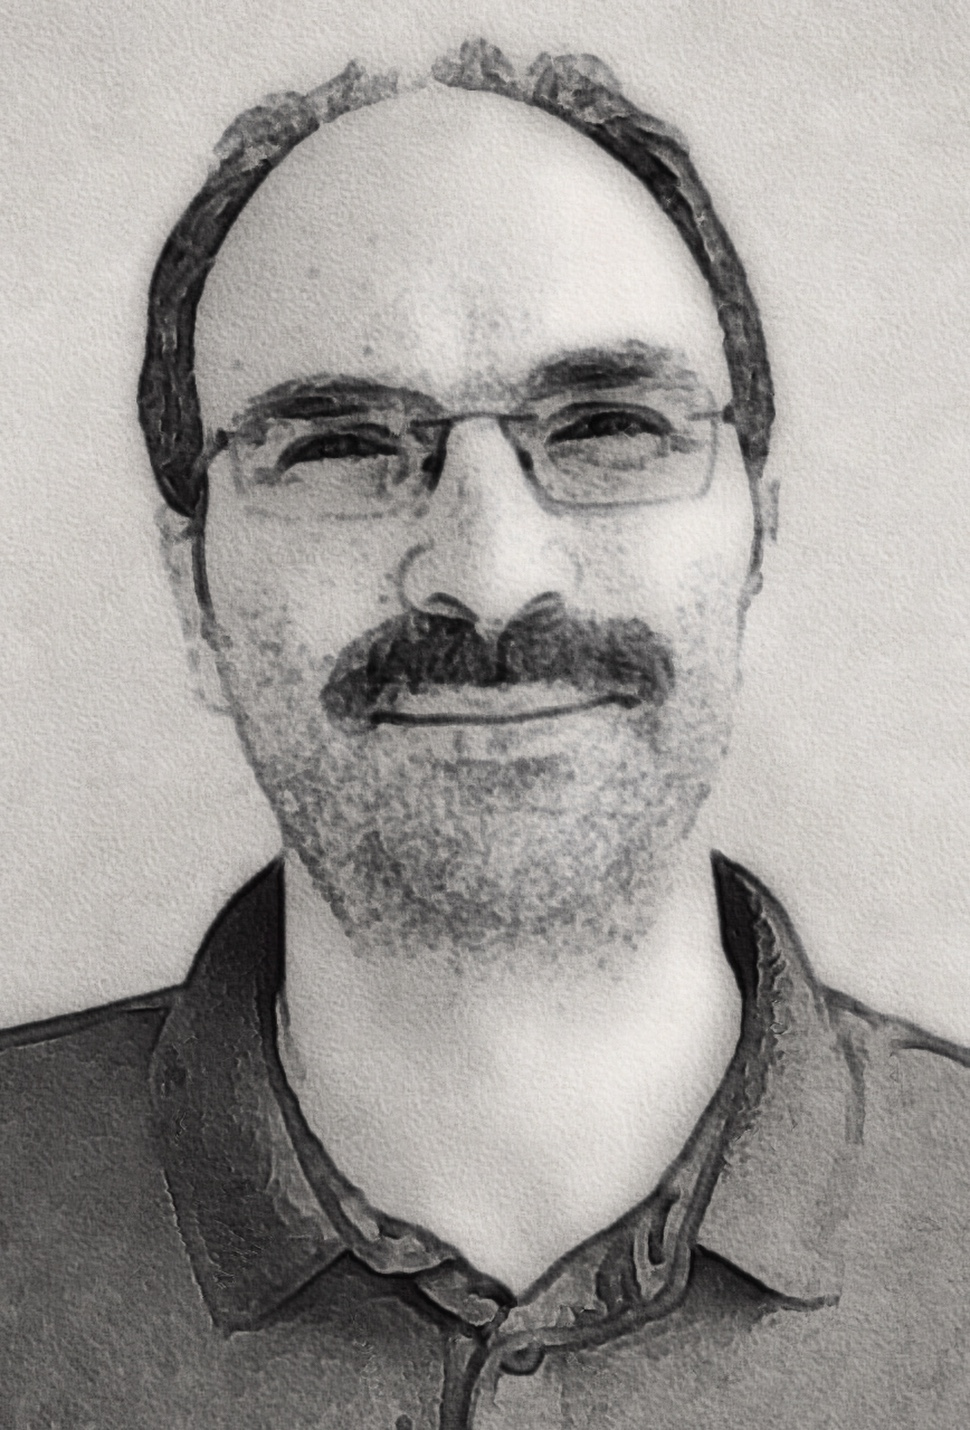
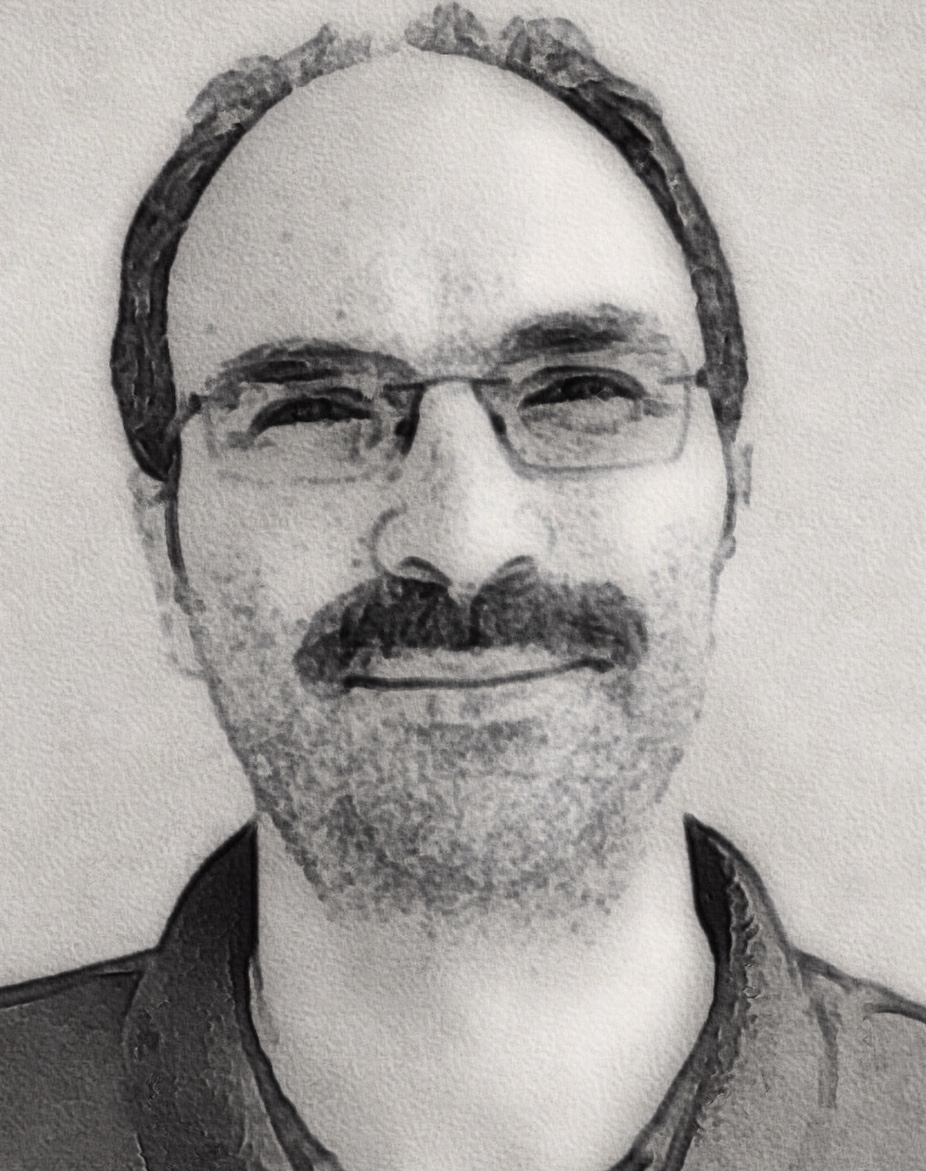
update

diff --git a/public/courses/example/gm2/index.html b/public/courses/example/gm2/index.html
@@ -807,7 +807,7 @@ prevent printing of the R code that generated the plot.</p>
   <div class="media author-card content-widget-hr">
     
       
-      <a href="https://harunpirim.netlify.app"><img class="avatar mr-3 avatar-circle" src="/author/harun-pirim/avatar_huc4d14e4d73f8c6debcd377b7fbd255c9_499515_270x270_fill_q90_lanczos_center.jpg" alt="Harun Pirim"></a>
+      <a href="https://harunpirim.netlify.app"><img class="avatar mr-3 avatar-circle" src="/author/harun-pirim/avatar_huc4d14e4d73f8c6debcd377b7fbd255c9_394416_270x270_fill_q90_lanczos_center.jpg" alt="Harun Pirim"></a>
     
 
     <div class="media-body">

diff --git a/public/post/2015-07-23-r-rmarkdown/index.html b/public/post/2015-07-23-r-rmarkdown/index.html
@@ -894,7 +894,7 @@ Figure 1: A fancy pie chart.
   <div class="media author-card content-widget-hr">
     
       
-      <a href="https://harunpirim.netlify.app"><img class="avatar mr-3 avatar-circle" src="/author/harun-pirim/avatar_huc4d14e4d73f8c6debcd377b7fbd255c9_499515_270x270_fill_q90_lanczos_center.jpg" alt="Harun Pirim"></a>
+      <a href="https://harunpirim.netlify.app"><img class="avatar mr-3 avatar-circle" src="/author/harun-pirim/avatar_huc4d14e4d73f8c6debcd377b7fbd255c9_394416_270x270_fill_q90_lanczos_center.jpg" alt="Harun Pirim"></a>
     
 
     <div class="media-body">

diff --git a/public/publication/conference-paper/index.html b/public/publication/conference-paper/index.html
@@ -1035,7 +1035,7 @@
   <div class="media author-card content-widget-hr">
     
       
-      <a href="https://harunpirim.netlify.app"><img class="avatar mr-3 avatar-circle" src="/author/harun-pirim/avatar_huc4d14e4d73f8c6debcd377b7fbd255c9_499515_270x270_fill_q90_lanczos_center.jpg" alt="Harun Pirim"></a>
+      <a href="https://harunpirim.netlify.app"><img class="avatar mr-3 avatar-circle" src="/author/harun-pirim/avatar_huc4d14e4d73f8c6debcd377b7fbd255c9_394416_270x270_fill_q90_lanczos_center.jpg" alt="Harun Pirim"></a>
     
 
     <div class="media-body">

diff --git a/public/publication/preprint/index.html b/public/publication/preprint/index.html
@@ -1010,7 +1010,7 @@
   <div class="media author-card content-widget-hr">
     
       
-      <a href="https://harunpirim.netlify.app"><img class="avatar mr-3 avatar-circle" src="/author/harun-pirim/avatar_huc4d14e4d73f8c6debcd377b7fbd255c9_499515_270x270_fill_q90_lanczos_center.jpg" alt="Harun Pirim"></a>
+      <a href="https://harunpirim.netlify.app"><img class="avatar mr-3 avatar-circle" src="/author/harun-pirim/avatar_huc4d14e4d73f8c6debcd377b7fbd255c9_394416_270x270_fill_q90_lanczos_center.jpg" alt="Harun Pirim"></a>
     
 
     <div class="media-body">

diff --git a/public/courses/example/gm/index.html b/public/courses/example/gm/index.html
@@ -794,7 +794,7 @@
   <div class="media author-card content-widget-hr">
     
       
-      <a href="https://harunpirim.netlify.app"><img class="avatar mr-3 avatar-circle" src="/author/harun-pirim/avatar_huc4d14e4d73f8c6debcd377b7fbd255c9_499515_270x270_fill_q90_lanczos_center.jpg" alt="Harun Pirim"></a>
+      <a href="https://harunpirim.netlify.app"><img class="avatar mr-3 avatar-circle" src="/author/harun-pirim/avatar_huc4d14e4d73f8c6debcd377b7fbd255c9_394416_270x270_fill_q90_lanczos_center.jpg" alt="Harun Pirim"></a>
     
 
     <div class="media-body">

diff --git a/public/courses/gm/index.html b/public/courses/gm/index.html
@@ -794,7 +794,7 @@
   <div class="media author-card content-widget-hr">
     
       
-      <a href="https://harunpirim.netlify.app"><img class="avatar mr-3 avatar-circle" src="/author/harun-pirim/avatar_huc4d14e4d73f8c6debcd377b7fbd255c9_499515_270x270_fill_q90_lanczos_center.jpg" alt="Harun Pirim"></a>
+      <a href="https://harunpirim.netlify.app"><img class="avatar mr-3 avatar-circle" src="/author/harun-pirim/avatar_huc4d14e4d73f8c6debcd377b7fbd255c9_394416_270x270_fill_q90_lanczos_center.jpg" alt="Harun Pirim"></a>
     
 
     <div class="media-body">

diff --git a/public/post/getting-started/index.html b/public/post/getting-started/index.html
@@ -968,7 +968,7 @@
   <div class="media author-card content-widget-hr">
     
       
-      <a href="https://harunpirim.netlify.app"><img class="avatar mr-3 avatar-circle" src="/author/harun-pirim/avatar_huc4d14e4d73f8c6debcd377b7fbd255c9_499515_270x270_fill_q90_lanczos_center.jpg" alt="Harun Pirim"></a>
+      <a href="https://harunpirim.netlify.app"><img class="avatar mr-3 avatar-circle" src="/author/harun-pirim/avatar_huc4d14e4d73f8c6debcd377b7fbd255c9_394416_270x270_fill_q90_lanczos_center.jpg" alt="Harun Pirim"></a>
     
 
     <div class="media-body">

diff --git a/public/post/gm/index.html b/public/post/gm/index.html
@@ -876,7 +876,7 @@
   <div class="media author-card content-widget-hr">
     
       
-      <a href="https://harunpirim.netlify.app"><img class="avatar mr-3 avatar-circle" src="/author/harun-pirim/avatar_huc4d14e4d73f8c6debcd377b7fbd255c9_499515_270x270_fill_q90_lanczos_center.jpg" alt="Harun Pirim"></a>
+      <a href="https://harunpirim.netlify.app"><img class="avatar mr-3 avatar-circle" src="/author/harun-pirim/avatar_huc4d14e4d73f8c6debcd377b7fbd255c9_394416_270x270_fill_q90_lanczos_center.jpg" alt="Harun Pirim"></a>
     
 
     <div class="media-body">

diff --git a/public/post/lp/index.html b/public/post/lp/index.html
@@ -893,7 +893,7 @@
   <div class="media author-card content-widget-hr">
     
       
-      <a href="https://harunpirim.netlify.app"><img class="avatar mr-3 avatar-circle" src="/author/harun-pirim/avatar_huc4d14e4d73f8c6debcd377b7fbd255c9_499515_270x270_fill_q90_lanczos_center.jpg" alt="Harun Pirim"></a>
+      <a href="https://harunpirim.netlify.app"><img class="avatar mr-3 avatar-circle" src="/author/harun-pirim/avatar_huc4d14e4d73f8c6debcd377b7fbd255c9_394416_270x270_fill_q90_lanczos_center.jpg" alt="Harun Pirim"></a>
     
 
     <div class="media-body">

diff --git a/public/project/example/index.html b/public/project/example/index.html
@@ -911,7 +911,7 @@
   <div class="media author-card content-widget-hr">
     
       
-      <a href="https://harunpirim.netlify.app"><img class="avatar mr-3 avatar-circle" src="/author/harun-pirim/avatar_huc4d14e4d73f8c6debcd377b7fbd255c9_499515_270x270_fill_q90_lanczos_center.jpg" alt="Harun Pirim"></a>
+      <a href="https://harunpirim.netlify.app"><img class="avatar mr-3 avatar-circle" src="/author/harun-pirim/avatar_huc4d14e4d73f8c6debcd377b7fbd255c9_394416_270x270_fill_q90_lanczos_center.jpg" alt="Harun Pirim"></a>
     
 
     <div class="media-body">

diff --git a/public/project/external-project/index.html b/public/project/external-project/index.html
@@ -888,7 +888,7 @@
   <div class="media author-card content-widget-hr">
     
       
-      <a href="https://harunpirim.netlify.app"><img class="avatar mr-3 avatar-circle" src="/author/harun-pirim/avatar_huc4d14e4d73f8c6debcd377b7fbd255c9_499515_270x270_fill_q90_lanczos_center.jpg" alt="Harun Pirim"></a>
+      <a href="https://harunpirim.netlify.app"><img class="avatar mr-3 avatar-circle" src="/author/harun-pirim/avatar_huc4d14e4d73f8c6debcd377b7fbd255c9_394416_270x270_fill_q90_lanczos_center.jpg" alt="Harun Pirim"></a>
     
 
     <div class="media-body">

diff --git a/public/project/internal-project/index.html b/public/project/internal-project/index.html
@@ -908,7 +908,7 @@
   <div class="media author-card content-widget-hr">
     
       
-      <a href="https://harunpirim.netlify.app"><img class="avatar mr-3 avatar-circle" src="/author/harun-pirim/avatar_huc4d14e4d73f8c6debcd377b7fbd255c9_499515_270x270_fill_q90_lanczos_center.jpg" alt="Harun Pirim"></a>
+      <a href="https://harunpirim.netlify.app"><img class="avatar mr-3 avatar-circle" src="/author/harun-pirim/avatar_huc4d14e4d73f8c6debcd377b7fbd255c9_394416_270x270_fill_q90_lanczos_center.jpg" alt="Harun Pirim"></a>
     
 
     <div class="media-body">
